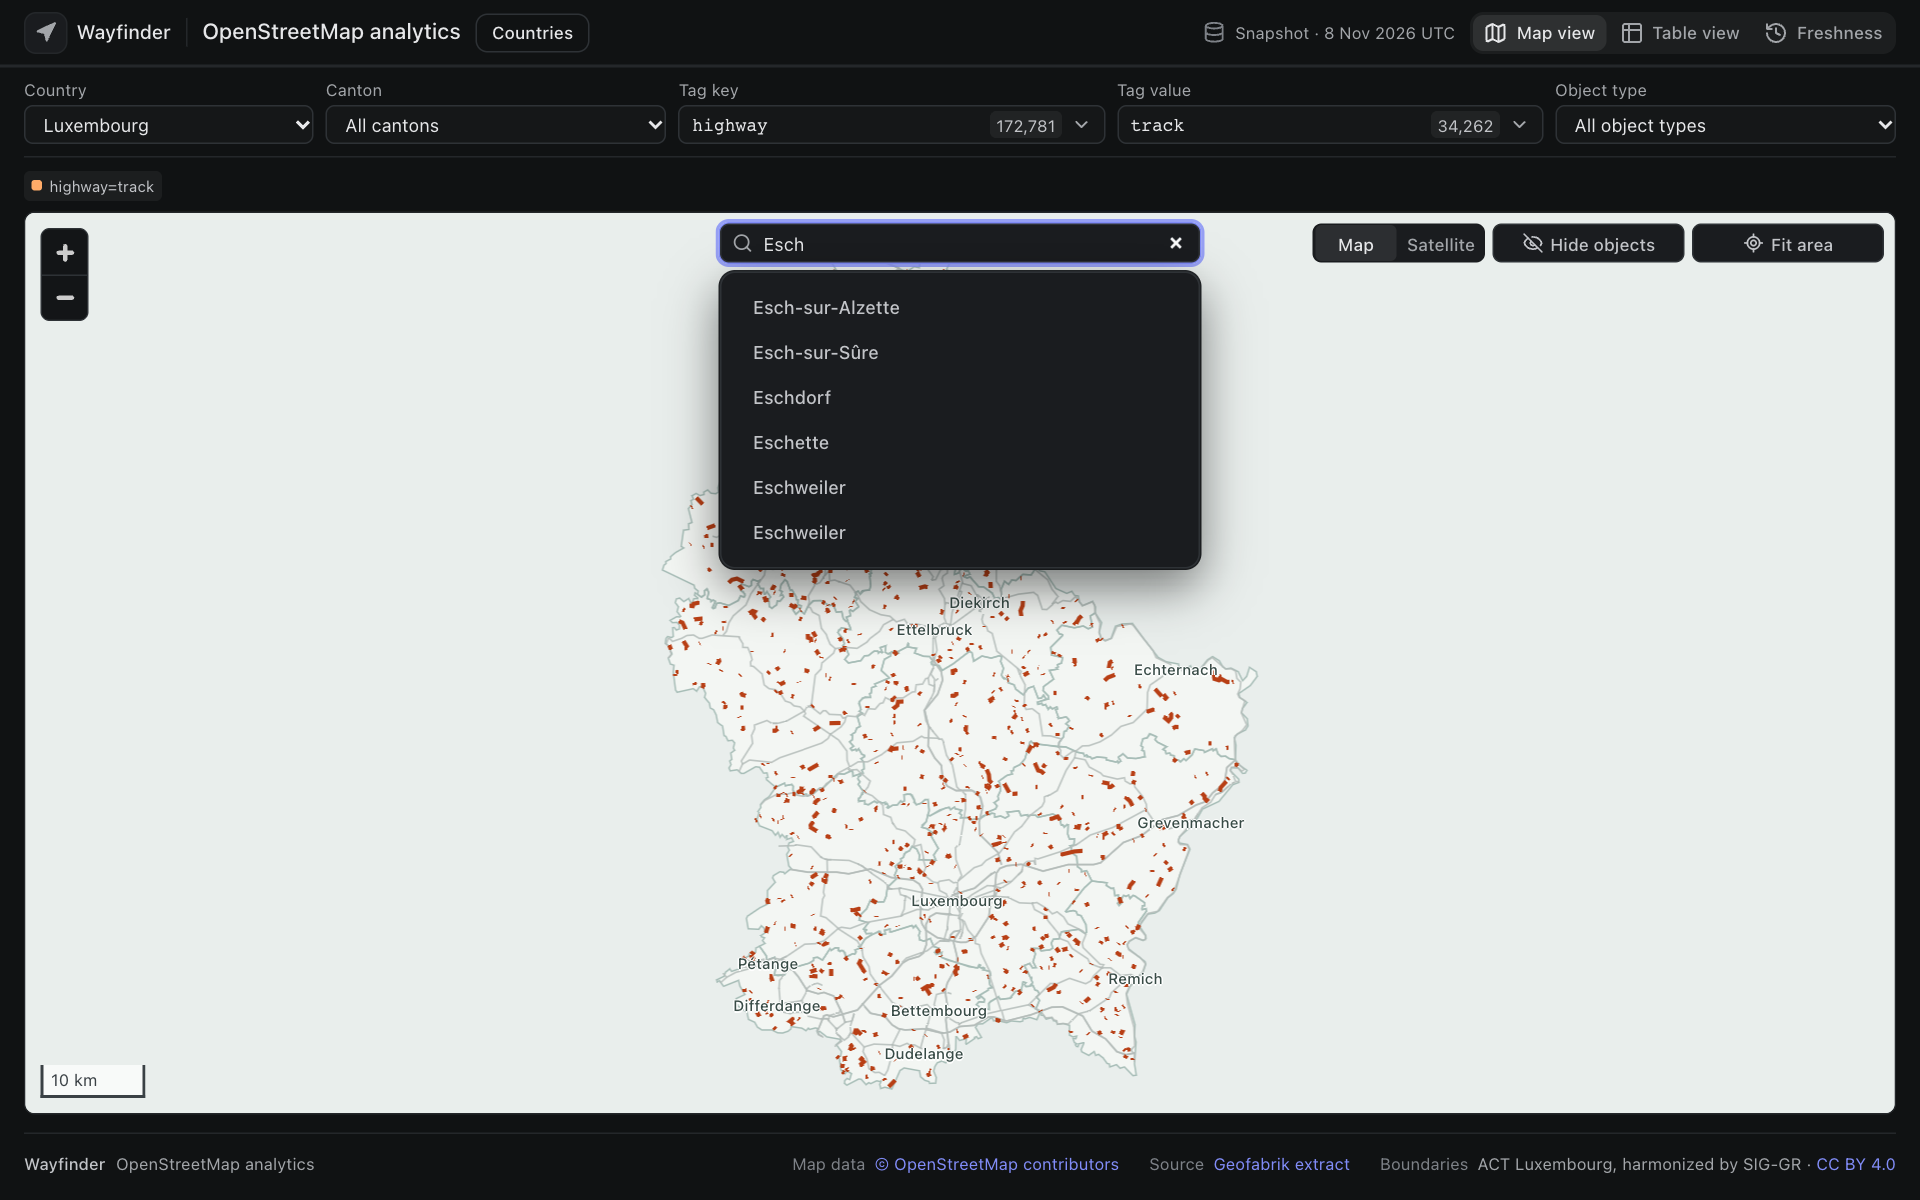
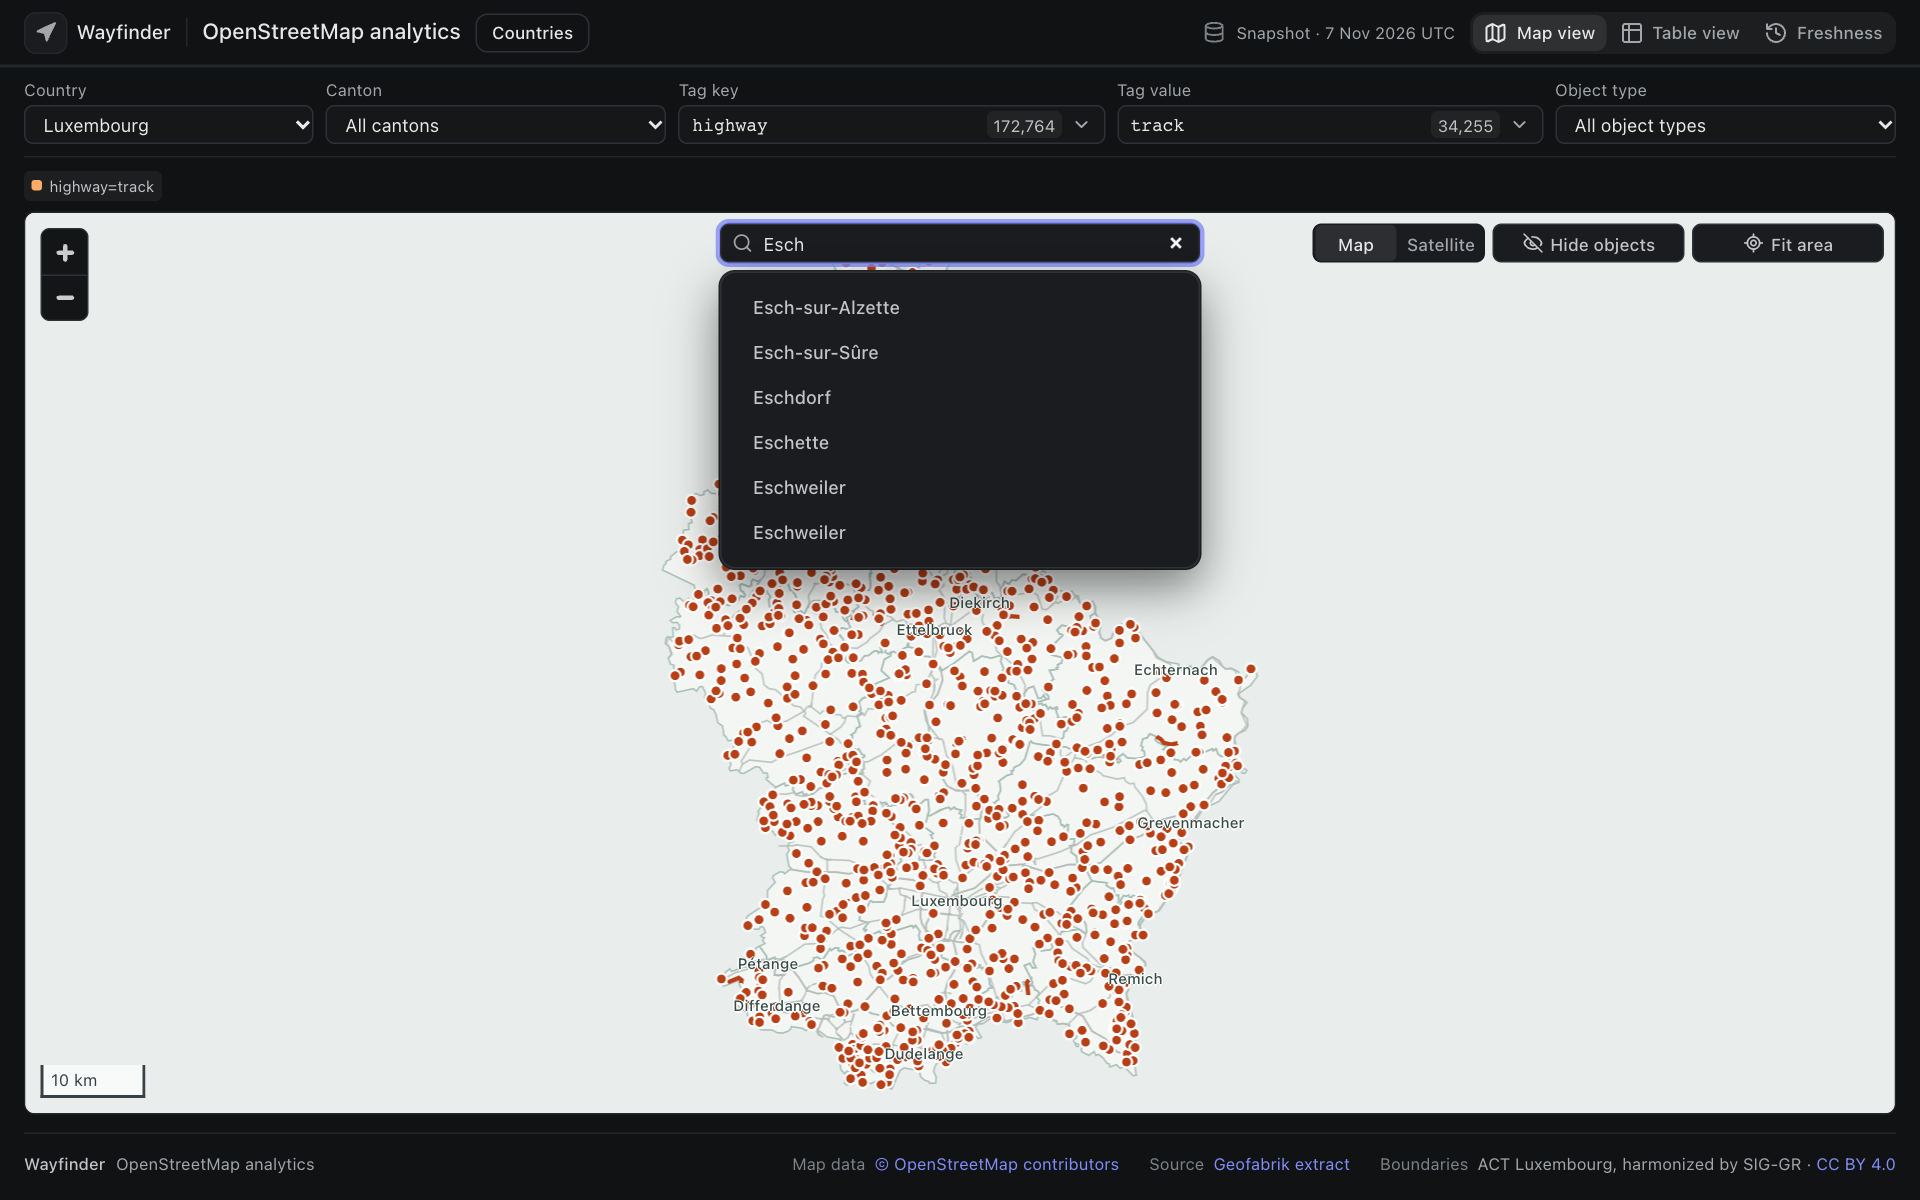
Fix large-country map view and filter deselection
Let the map zoom out to the lowest tile level so large countries fit,
and mark short objects with dots in dense views, where they are under
a pixel long. Keep the last selected tag value selected instead of
falling back to all values, and pick the area's most common value when
a selected one is missing there. Add browser tests for each filter
action.

Changed region(s): [[0.3438, 0.4008, 0.6562, 0.925], [0.6562, 0.0, 0.6875, 0.0308], [0.5312, 0.0925, 0.5625, 0.1233]]

diff --git a/code/web/src/Analytics.tsx b/code/web/src/Analytics.tsx
@@ -494,13 +494,14 @@ function TagPicker({
                   key={item}
                   title={exactValue(item)}
                   aria-label={"Remove " + exactValue(item)}
+                  disabled={valueMode && selected.length === 1}
                   onClick={() => onToggle(item)}
                 >
                   <code>{exactValue(item)}</code>
                   {selectedMetrics?.has(item) && (
                     <small>{count(selectedMetrics.get(item)!)}</small>
                   )}
-                  <X size={12} />
+                  {!(valueMode && selected.length === 1) && <X size={12} />}
                 </button>
               ))}
             </div>
@@ -985,7 +986,7 @@ export default function Analytics() {
     const abort = new AbortController();
     const timer = setTimeout(() => {
       read<FilterMetrics>(metricsUrl, abort.signal, filterParams)
-        .then((data) => {
+        .then(async (data) => {
           if (abort.signal.aborted) return;
           const available = new Map(data.keys);
           const exact = new Map(
@@ -1002,6 +1003,29 @@ export default function Analytics() {
                 (value) => (exact.get(JSON.stringify([key, value])) ?? 0) > 0,
               ),
             }));
+          // A value missing from this area falls back to the area's most
+          // common value, because an empty list would mean every value.
+          await Promise.all(
+            next
+              .filter(
+                ({ key, values }) =>
+                  !values.length &&
+                  filters.some(
+                    (rule) => rule.key === key && rule.values.length,
+                  ),
+              )
+              .map(async (rule) => {
+                const first = await firstValue(
+                  country,
+                  region,
+                  kind,
+                  rule.key,
+                  abort.signal,
+                );
+                if (first !== undefined) rule.values = [first];
+              }),
+          );
+          if (abort.signal.aborted) return;
           if (JSON.stringify(next) !== JSON.stringify(filters)) {
             setFilters((current) => (current === filters ? next : current));
             setAdjustedScope(scopeId);
@@ -1067,7 +1091,10 @@ export default function Analytics() {
     if (!active) return;
     updateValues(active.key, (values) =>
       values.includes(value)
-        ? values.filter((item) => item !== value)
+        ? // No values means "all values", so the last one stays selected.
+          values.length === 1
+          ? values
+          : values.filter((item) => item !== value)
         : valuesSelected < 40
           ? [...values, value]
           : values,

diff --git a/code/web/src/AnalyticsFeatureMap.tsx b/code/web/src/AnalyticsFeatureMap.tsx
@@ -140,6 +140,11 @@ function fitBox(
   );
 }
 
+// The pre-built tiles stop at zoom 4, and the map is blank below that.
+const lowestZoom = 4;
+// Luxembourg's aerial imagery starts at a closer zoom than the base map.
+const lowestAerialZoom = 6;
+
 const fitArea = (m: MapLibreMap | null, bounds: FeatureBounds, maxZoom = 13) =>
   fitBox(m, bounds, { padding: 16, maxZoom });
 
@@ -213,6 +218,9 @@ export default function AnalyticsFeatureMap({
   const [contextError, setContextError] = useState("");
   const [basemap, setBasemap] = useState<"street" | "satellite">("street");
   const aerial = basemap !== "street";
+  useEffect(() => {
+    map.current?.setMinZoom(aerial ? lowestAerialZoom : lowestZoom);
+  }, [aerial]);
   const aerialRef = useRef(aerial);
   const [imageryError, setImageryError] = useState(false);
   const [objectsHidden, setObjectsHidden] = useState(false);
@@ -254,7 +262,7 @@ export default function AnalyticsFeatureMap({
       container,
       style: featureMapStyle(country, datasetVersion(country)),
       attributionControl: false,
-      minZoom: 6,
+      minZoom: lowestZoom,
       maxZoom: 18,
       dragRotate: false,
       pitchWithRotate: false,
@@ -868,7 +876,7 @@ export default function AnalyticsFeatureMap({
           ],
         });
         // A short line can vanish at this zoom, so a dot marks where it is.
-        if (rare && !feature.geometry.type.includes("Point")) {
+        if (!feature.geometry.type.includes("Point")) {
           const low = m.project([box[0], box[1]]);
           const high = m.project([box[2], box[3]]);
           const center: [number, number] = [
